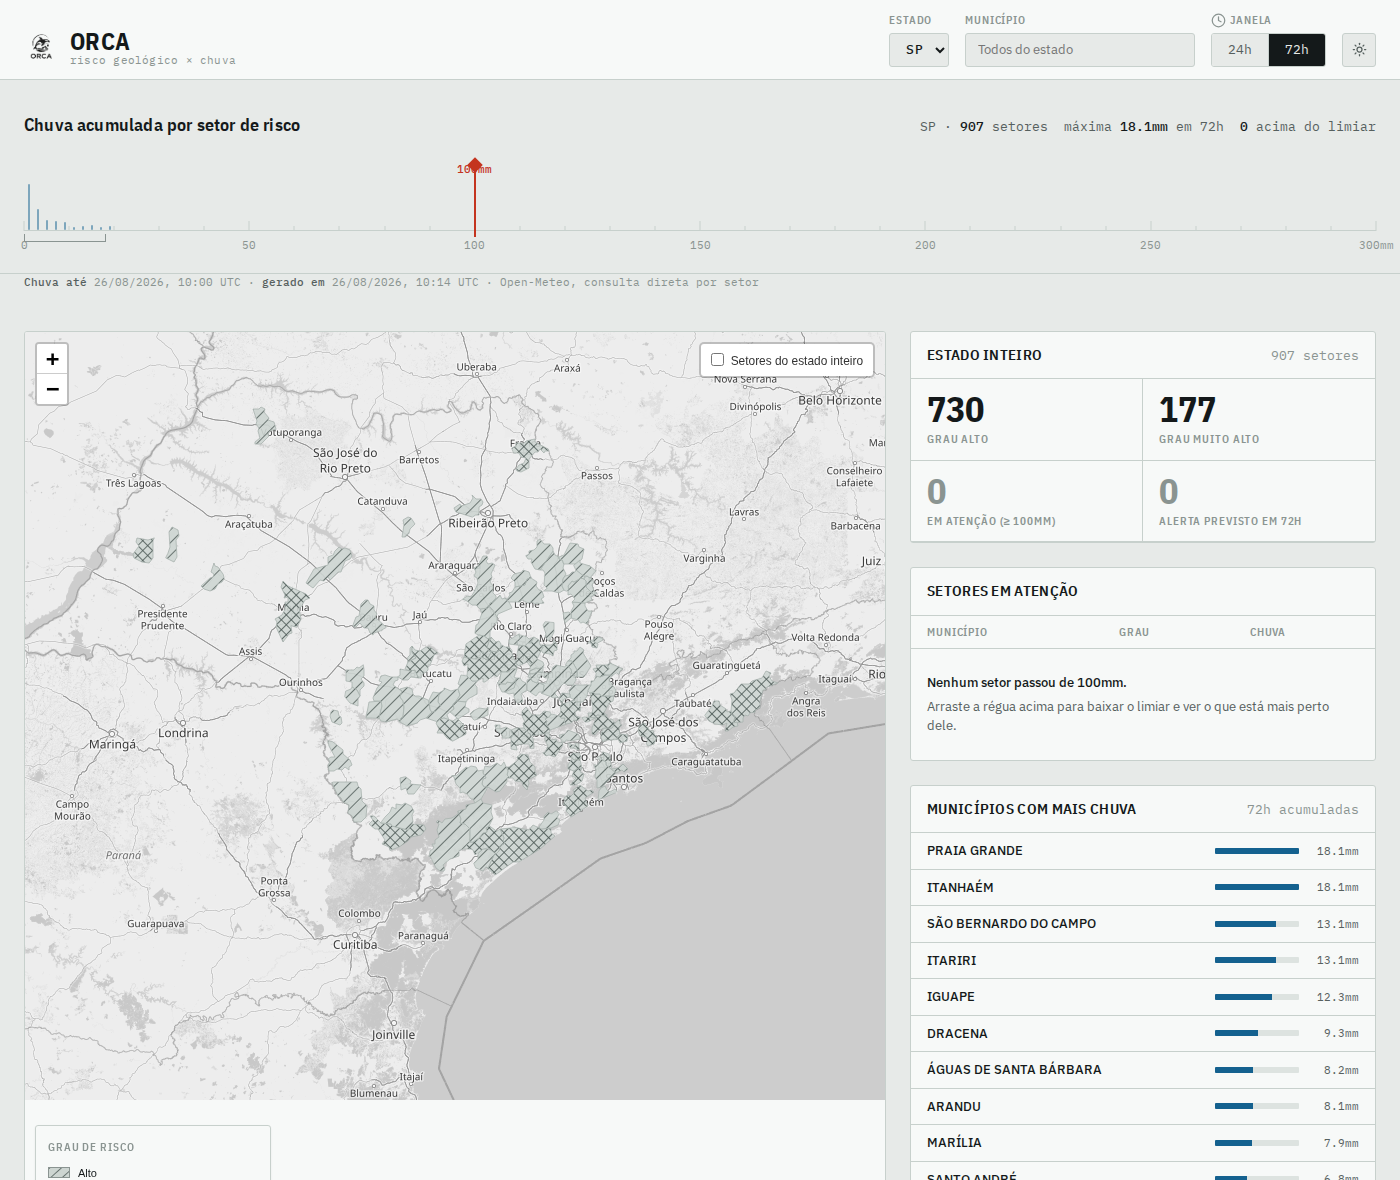
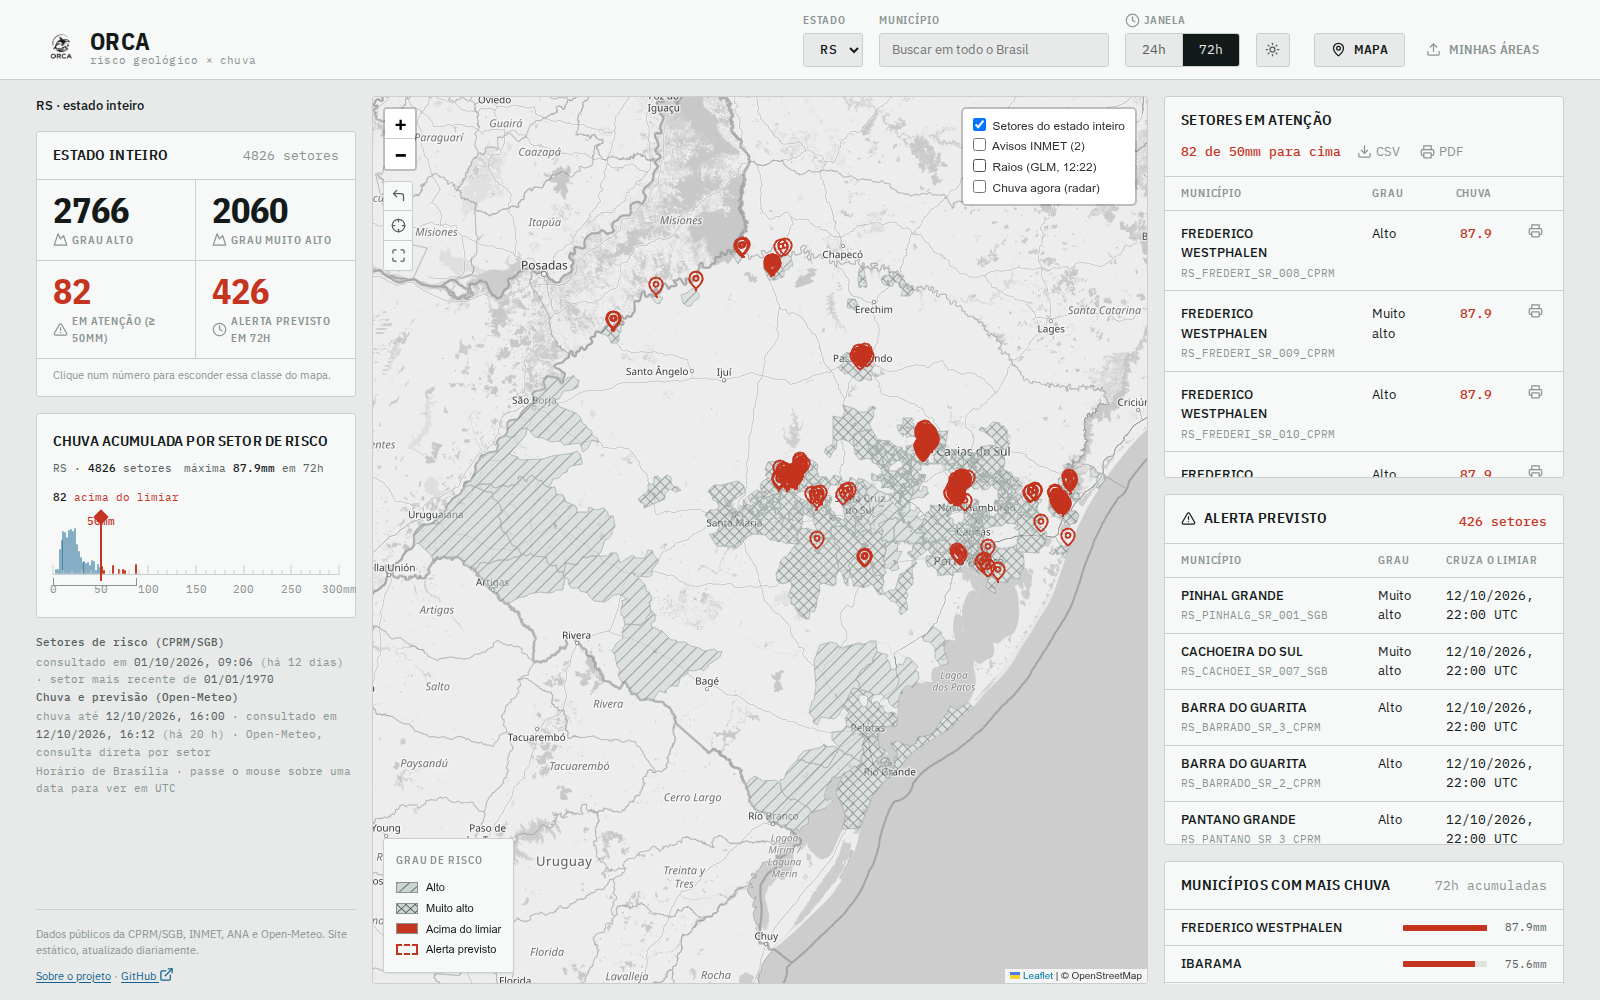
docs(readme): atualiza os READMEs ao dashboard da v2.0.0
Os dois READMEs descreviam o dashboard de antes do layout em três colunas.
Entram o layout em altura de tela, os pins com descida ao município, o
filtro por classe na legenda, a exportação CSV/PDF, os limites de "Minhas
áreas" e a camada de avisos do INMET. O README em inglês também ganha o que
já estava só no português: busca nacional, navegação pela URL, selo de
atualização, radar e raios.

"Fontes de dados" passa a listar as camadas que o navegador busca ao vivo
(IBGE, INMET, RainViewer, SSEC RealEarth, OpenStreetMap), com uma limitação
correspondente. As capturas de tela foram refeitas com o layout atual (RS,
limiar de 50mm, dado de 12/10/2026).

diff --git a/README.md b/README.md
@@ -38,7 +38,7 @@ nunca aparecem juntas.
 publicado no GitHub Pages e atualizado todo dia por cron.
 
 <p align="center">
-  <img src="docs/screenshots/dashboard-claro.png" alt="Dashboard do ORCA em tema claro: mapa de setores de risco geológico coloridos por grau, cards de contagem, tabela de setores em atenção e gráfico de série temporal de chuva" width="49%">
+  <img src="docs/screenshots/dashboard-claro.png" alt="Dashboard do ORCA em tema claro, no Rio Grande do Sul com limiar de 50mm: à esquerda os contadores e a régua de chuva por setor, no centro o mapa com os setores hachurados por grau e pins nos que passaram do limiar, à direita as tabelas de setores em atenção e de alerta previsto" width="49%">
   <img src="docs/screenshots/dashboard-escuro.png" alt="Mesmo dashboard do ORCA em tema escuro" width="49%">
 </p>
 
@@ -52,21 +52,32 @@ publicado no GitHub Pages e atualizado todo dia por cron.
 - Calcula acumulado de 24h e 72h e uma trajetória de alerta previsto para as
   próximas 72h.
 - Exporta tudo como GeoJSON/JSON estático e serve um dashboard em HTML, CSS e JS
-  puro, com mapa (Leaflet), tabela, contadores e gráfico (Chart.js). O grau de
-  risco aparece como hachura, no estilo de carta geológica, para que a cor fique
-  reservada a uma coisa só: setor acima do limiar. Uma régua no topo plota todos
-  os setores contra o limiar, que você arrasta.
-- Deixa o visitante subir uma área própria (GeoJSON, KML ou shapefile em `.zip`)
-  e ver a chuva calculada pra ela, tudo dentro do navegador, sem enviar o arquivo
-  pra lugar nenhum.
+  puro, com mapa (Leaflet), tabelas, contadores e gráfico (Chart.js), em tema
+  claro e escuro. O grau de risco aparece como hachura, no estilo de carta
+  geológica, para que a cor fique reservada a uma coisa só: setor acima do
+  limiar. Uma régua plota todos os setores contra o limiar, que você arrasta.
+- Layout em altura de tela, em três colunas com rolagem própria (contexto, mapa e
+  painel), com o mapa sempre à vista. Abaixo de 1081px de largura, tudo empilha.
+- Pins marcam no mapa os setores acima do limiar e em alerta previsto; clicar
+  num deles desce ao município. A legenda e os contadores filtram o mapa por
+  classe (grau, acima do limiar, alerta previsto).
+- Exporta relatórios em CSV e PDF dentro do navegador: a tabela inteira
+  (respeitando a UF e o limiar), uma linha só ou uma área própria.
+- Na aba "Minhas áreas", o visitante sobe uma área própria (GeoJSON, KML ou
+  shapefile em `.zip`; até 5 áreas, 10MB por arquivo) e vê a chuva acumulada e o
+  alerta previsto pra ela, tudo dentro do navegador, sem enviar o arquivo pra
+  lugar nenhum.
 - Busca de município em todo o Brasil (não só na UF selecionada): escolher uma
   cidade de outro estado troca a UF sozinho. Navegação por UF/município fica na
   URL (`#/<uf>/<município>`), com Voltar/Avançar do navegador, link
   compartilhável e trilha clicável.
 - Selo de atualização por fonte (setores da CPRM/SGB e chuva), em horário de
   Brasília, com idade do dado e alerta quando algo passa do ciclo esperado.
-- Camada opcional de radar de chuva (RainViewer) no mapa.
-- Camada opcional de raios (GOES-19 GLM, via SSEC RealEarth) no mapa: atividade elétrica dos últimos minutos, como indicador de tempestade.
+- Camadas ao vivo no mapa, que você liga e desliga: avisos meteorológicos
+  oficiais do INMET (ligada por padrão; polígono na cor da severidade, com riscos
+  e instruções, filtrado pela UF), radar de chuva (RainViewer) e raios (GOES-19
+  GLM, via SSEC RealEarth: atividade elétrica dos últimos minutos, como
+  indicador de tempestade).
 - Roda dois workflows separados: setores uma vez por mês, chuva uma vez por dia.
 - 144 testes com HTTP mockado, rodando no CI a cada push.
 
@@ -81,9 +92,20 @@ A CPRM virou SGB. Os domínios antigos (`geoportal.cprm.gov.br` e companhia)
 ainda respondem em parte, mas a camada de risco hoje mora em
 `geoportal.sgb.gov.br`.
 
-O choropleth de municípios do mapa usa a malha do IBGE, buscada ao vivo pelo
-navegador. É a única dependência de IBGE que sobrou, e ela vive só no front-end.
-Se o IBGE cair, o mapa degrada pra quem está olhando e o pipeline nem percebe.
+O pipeline só fala com essas duas. As camadas abaixo são buscadas ao vivo pelo
+navegador de quem está olhando e não passam pelo pipeline:
+
+| Fonte | Camada no mapa |
+|---|---|
+| [IBGE](https://servicodados.ibge.gov.br/) | Malha de municípios (choropleth) |
+| [INMET](https://portal.inmet.gov.br/) | Avisos meteorológicos oficiais |
+| [RainViewer](https://www.rainviewer.com/) | Radar de chuva |
+| [SSEC RealEarth](https://realearth.ssec.wisc.edu/) | Raios (GOES-19 GLM) |
+| [OpenStreetMap](https://www.openstreetmap.org/) | Mapa de fundo |
+
+Se uma delas cair, a camada some ou o mapa degrada pra quem está olhando, e o
+pipeline nem percebe. Em "Minhas áreas", a chuva também vem da Open-Meteo
+direto do navegador.
 
 ## Arquitetura
 
@@ -222,6 +244,10 @@ de 27 fechando como `success`, com a ingestão da CPRM falhando por timeout.
   repetir esse volume gera `429` de forma consistente.
   `src/ingest/openmeteo.py` divide em lotes de 50 pontos, usa janela de histórico
   curta e espera 60s em `429`.
+- **As camadas ao vivo dependem de terceiros.** Avisos do INMET, radar e raios
+  são buscados na hora; se a fonte cair, a camada não aparece. A de raios também
+  é omitida quando o quadro mais recente tem mais de 30 minutos, e mostra raio
+  total (nuvem e solo), não ponto de impacto.
 - **Sem autenticação e sem multiusuário.** É ferramenta local e de portfólio.
 - **O dashboard não atualiza sob demanda.** Ele mostra a última exportação, que
   roda uma vez por dia. Pra ver dado mais novo na hora, rode
@@ -250,7 +276,8 @@ As decisões maiores foram testadas com requisição real, não por suposição:
   depender de estação. INMET e ANA foram implementados e descartados: o INMET só
   publica o ZIP anual (dias de defasagem) e a rede da ANA é majoritariamente
   fluviométrica. Manter as duas trilhas custava ~1.900 linhas que nenhum workflow
-  executava.
+  executava. Os avisos oficiais do INMET voltaram só como camada do mapa, lida
+  pelo navegador; não entram no cálculo.
 - **Cobertura nacional:** ingestão incremental da CPRM mais uma grade espacial
   calibrada por busca binária, em vez de limiar de densidade escolhido a dedo.
 
@@ -288,4 +315,5 @@ e o crédito ao autor original (Mateus Hcristos Leptokarydis) preservado.
 
 Os dados públicos pertencem aos seus órgãos:
 [CPRM/SGB](https://www.sgb.gov.br/) e [Open-Meteo](https://open-meteo.com/).
-Consulte os termos de uso de cada um antes de redistribuir.
+As camadas ao vivo do mapa vêm de INMET, IBGE, RainViewer, SSEC RealEarth e
+OpenStreetMap. Consulte os termos de uso de cada um antes de redistribuir.

diff --git a/README.en.md b/README.en.md
@@ -39,7 +39,7 @@ almost never show up together.
 published on GitHub Pages and refreshed daily by cron.
 
 <p align="center">
-  <img src="docs/screenshots/dashboard-claro.png" alt="ORCA dashboard in light theme: map of geological risk sectors colored by degree, count cards, table of sectors of concern, and a rainfall time series chart" width="49%">
+  <img src="docs/screenshots/dashboard-claro.png" alt="ORCA dashboard in light theme, showing Rio Grande do Sul with a 50mm threshold: counters and the per-sector rainfall ruler on the left, the map in the center with sectors hatched by risk degree and pins on those above the threshold, and the tables of sectors of concern and predicted alerts on the right" width="49%">
   <img src="docs/screenshots/dashboard-escuro.png" alt="Same ORCA dashboard in dark theme" width="49%">
 </p>
 
@@ -53,14 +53,35 @@ published on GitHub Pages and refreshed daily by cron.
 - Computes 24h and 72h accumulated rainfall and a predicted 72h alert
   trajectory.
 - Exports everything as static GeoJSON/JSON and serves a dashboard in plain
-  HTML, CSS and JS, with a map (Leaflet), table, counters and chart
-  (Chart.js). Risk degree is shown as hachure patterns, in the style of a
-  geological map, so color stays reserved for one thing only: a sector above
-  the threshold. A ruler at the top plots every sector against the
-  threshold, which you can drag.
-- Lets visitors upload their own area (GeoJSON, KML, or a zipped shapefile)
-  and see rainfall calculated for it, entirely in the browser, without
-  uploading the file anywhere.
+  HTML, CSS and JS, with a map (Leaflet), tables, counters and chart
+  (Chart.js), in light and dark themes. Risk degree is shown as hachure
+  patterns, in the style of a geological map, so color stays reserved for one
+  thing only: a sector above the threshold. A ruler plots every sector
+  against the threshold, which you can drag.
+- Full-height layout in three independently scrolling columns (context, map
+  and panel), with the map always in view. Below 1081px wide, everything
+  stacks.
+- Pins mark the sectors above the threshold and under predicted alert;
+  clicking one drills down to the municipality. The legend and counters filter
+  the map by class (risk degree, above threshold, predicted alert).
+- Exports CSV and PDF reports in the browser: the whole table (honoring the
+  selected state and threshold), a single row, or a custom area.
+- In the "Minhas áreas" (My areas) tab, visitors upload their own area
+  (GeoJSON, KML, or a zipped shapefile; up to 5 areas, 10MB per file) and see
+  accumulated rainfall and the predicted alert for it, entirely in the
+  browser, without uploading the file anywhere.
+- Municipality search across all of Brazil (not just the selected state):
+  picking a city in another state switches the state automatically. State and
+  municipality navigation lives in the URL (`#/<uf>/<municipality>`), with
+  browser Back/Forward, shareable links and a clickable breadcrumb.
+- Freshness badge per source (CPRM/SGB sectors and rainfall), in Brasília
+  time, with the data's age and a warning when something is past its expected
+  cycle.
+- Live map layers you can toggle: official INMET weather warnings (on by
+  default; polygon in the severity color, with risks and instructions,
+  filtered to the selected state), rain radar (RainViewer), and lightning
+  (GOES-19 GLM, via SSEC RealEarth: electrical activity from the last few
+  minutes, as a storm indicator).
 - Runs two separate workflows: sectors once a month, rainfall once a day.
 - 144 tests with mocked HTTP, running in CI on every push.
 
@@ -75,10 +96,20 @@ CPRM was renamed to SGB. The old domains (`geoportal.cprm.gov.br` and
 similar) still respond partially, but the risk layer now lives at
 `geoportal.sgb.gov.br`.
 
-The map's municipality choropleth uses IBGE's mesh, fetched live by the
-browser. It's the only IBGE dependency left, and it lives only in the
-front-end. If IBGE goes down, the map degrades for the viewer but the
-pipeline doesn't notice.
+The pipeline only talks to those two. The layers below are fetched live by
+the viewer's browser and never go through the pipeline:
+
+| Source | Map layer |
+|---|---|
+| [IBGE](https://servicodados.ibge.gov.br/) | Municipality mesh (choropleth) |
+| [INMET](https://portal.inmet.gov.br/) | Official weather warnings |
+| [RainViewer](https://www.rainviewer.com/) | Rain radar |
+| [SSEC RealEarth](https://realearth.ssec.wisc.edu/) | Lightning (GOES-19 GLM) |
+| [OpenStreetMap](https://www.openstreetmap.org/) | Basemap |
+
+If one of them goes down, that layer disappears or the map degrades for the
+viewer, and the pipeline doesn't notice. In "Minhas áreas", rainfall also
+comes from Open-Meteo straight from the browser.
 
 ## Architecture
 
@@ -225,6 +256,11 @@ failing on timeout.
   repeating that volume consistently triggers `429`.
   `src/ingest/openmeteo.py` batches in groups of 50 points, uses a short
   history window, and waits 60s on `429`.
+- **The live layers depend on third parties.** INMET warnings, radar and
+  lightning are fetched on the spot; if the source goes down, the layer
+  doesn't show. The lightning layer is also left out when the latest frame is
+  more than 30 minutes old, and it shows total lightning (in-cloud and
+  cloud-to-ground), not strike points.
 - **No authentication and no multi-user support.** It's a local, portfolio
   tool.
 - **The dashboard doesn't update on demand.** It shows the last export,
@@ -256,7 +292,8 @@ The bigger decisions were tested with real requests, not assumed:
   without depending on a station. INMET and ANA were implemented and dropped:
   INMET only publishes the annual ZIP (days of lag) and ANA's network is
   mostly fluviometric. Keeping both paths cost ~1,900 lines that no workflow
-  ever ran.
+  ever ran. INMET's official warnings came back only as a map layer, read by
+  the browser; they don't feed into the calculation.
 - **National coverage:** incremental CPRM ingestion plus a spatial grid
   calibrated by binary search, instead of a hand-picked density threshold.
 
@@ -296,4 +333,5 @@ Leptokarydis) is preserved.
 
 The public data belongs to their respective agencies:
 [CPRM/SGB](https://www.sgb.gov.br/) and [Open-Meteo](https://open-meteo.com/).
-Check each one's terms of use before redistributing.
+The live map layers come from INMET, IBGE, RainViewer, SSEC RealEarth and
+OpenStreetMap. Check each one's terms of use before redistributing.
